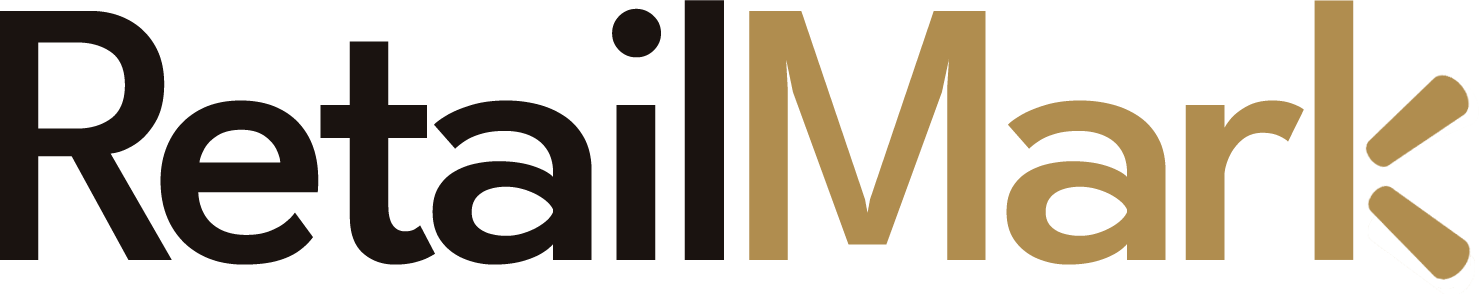
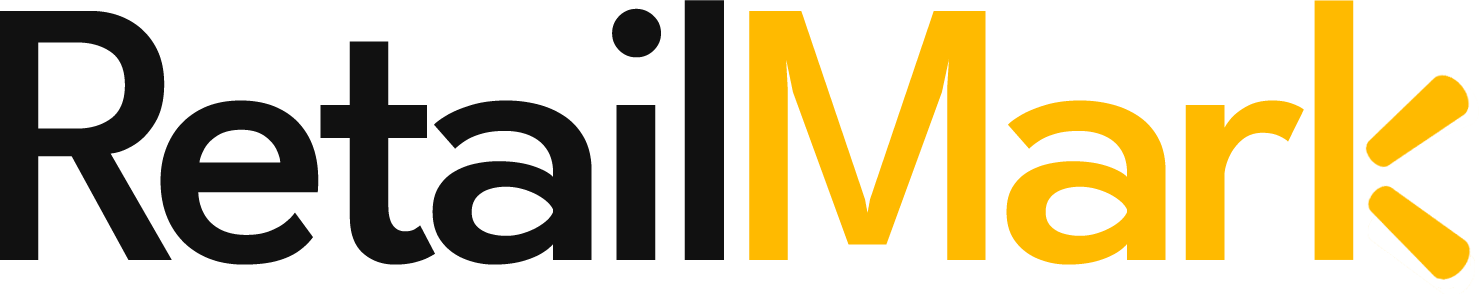
Fix the transparent header, and undo a half-applied palette
The nav text was unreadable because the header had no background at all.

Commit 08986bd added every rgba(var(--ink-rgb), ...) usage in the file but
never added the --ink-rgb declaration. An rgba() whose custom property is
undefined is invalid at computed-value time, and that resolves to transparent
rather than falling back to the earlier declaration in the cascade — so the bar
lost its background entirely and put white nav links on a cream hero.

The reason the declaration went missing is the same reason the palette was
wrong: that script inserted it with str.replace("  --black: #111111;", ...) at
a moment when --black was #1A1310, because a palette test had been applied and
not reverted. replace() matched nothing, returned the string unchanged, and
nothing asserted otherwise. The commit then also shipped a mixed palette —
espresso hex tokens with clay rgba literals — because palette.py had been run
repeatedly on its own output.

Restored every colour to the values in cdd1f3f, the last commit before that
pass: tokens, the four accent rgba literals, the two shadow literals, and the
logo artwork, which had been recoloured to brass. Diffed every colour literal
in the file against that commit; the only differences left are the ink
literals, now correctly tokenised, and the new retailer band's own whites.

palette.py no longer fails quietly. Every token substitution is re.subn with
the count asserted, and before it writes it checks that no var() is used
[…]

Changed region(s): [[0.4976, 0.0, 0.9953, 0.949]]

diff --git a/styles.css b/styles.css
@@ -1,14 +1,25 @@
 :root {
-  --black: #1A1310;
-  --charcoal: #2A211B;
-  --gold: #B08D4F;
-  --gold-light: #C6AD80;
-  --gold-dark: #8A6C35;
-  --gold-soft: rgba(204, 90, 49, 0.12);
-  --cream: #FAF7F1;
-  --gray: #6E655B;
-  --gray-light: #9C9287;
-  --border: #E9E1D5;
+  --black: #111111;
+  /* The ink as an rgb triple, because rgba() cannot take a hex custom
+     property. Every rgba(var(--ink-rgb), ...) below depends on this line
+     existing: an rgba() whose variable is undefined is invalid at
+     computed-value time, which resolves to transparent rather than falling
+     back to an earlier declaration. That is exactly how the header lost its
+     background and put white nav text on a cream hero. */
+  --ink-rgb: 17, 17, 17;
+  --ink-raised: #141414;
+  --card-dark: #1a1a1e;
+  --card-border: #35353a;
+  --on-dark-muted: #C9C9CC;
+  --charcoal: #222226;
+  --gold: #E8B923;
+  --gold-light: #F5D566;
+  --gold-dark: #C79A15;
+  --gold-soft: rgba(232, 185, 35, 0.12);
+  --cream: #FAF8F3;
+  --gray: #6B6B6F;
+  --gray-light: #9A9A9E;
+  --border: #E8E6DF;
   --radius: 10px;
   --radius-lg: 16px;
   --max-width: 1160px;
@@ -26,7 +37,7 @@
   --shadow-sm: 0 1px 2px rgba(var(--ink-rgb), 0.04), 0 1px 3px rgba(var(--ink-rgb), 0.03);
   --shadow-md: 0 8px 24px rgba(var(--ink-rgb), 0.07), 0 2px 6px rgba(var(--ink-rgb), 0.04);
   --shadow-lg: 0 24px 48px rgba(var(--ink-rgb), 0.14), 0 8px 16px rgba(var(--ink-rgb), 0.06);
-  --shadow-gold: 0 10px 24px rgba(141, 109, 15, 0.28);
+  --shadow-gold: 0 10px 24px rgba(199, 154, 21, 0.28);
 }
 
 * { box-sizing: border-box; margin: 0; padding: 0; }
@@ -221,8 +232,8 @@ textarea:focus-visible {
   display: flex;
   align-items: center;
   background:
-    radial-gradient(circle at 85% 0%, rgba(204, 90, 49,0.18), transparent 55%),
-    radial-gradient(circle at 0% 100%, rgba(204, 90, 49,0.08), transparent 45%),
+    radial-gradient(circle at 85% 0%, rgba(232, 185, 35,0.18), transparent 55%),
+    radial-gradient(circle at 0% 100%, rgba(232, 185, 35,0.08), transparent 45%),
     var(--cream);
   position: relative;
   overflow: hidden;
@@ -325,7 +336,7 @@ textarea:focus-visible {
 .service-card:hover {
   box-shadow: var(--shadow-lg);
   transform: translateY(-4px);
-  border-color: rgba(204, 90, 49, 0.4);
+  border-color: rgba(232, 185, 35, 0.4);
 }
 .service-icon {
   display: inline-flex;
@@ -1024,7 +1035,7 @@ a.service-card:focus-visible {
 
 .page-hero {
   background:
-    radial-gradient(circle at 88% 0%, rgba(204, 90, 49,0.16), transparent 58%),
+    radial-gradient(circle at 88% 0%, rgba(232, 185, 35,0.16), transparent 58%),
     var(--cream);
   padding: 66px 0 54px;
   border-bottom: 1px solid var(--border);
@@ -1352,7 +1363,7 @@ a.service-card:focus-visible {
   border-left: 3px solid var(--gold);
 }
 .post-body blockquote p { margin: 0; font-size: 1.08rem; }
-.post-body a { color: var(--gold-dark); border-bottom: 1px solid rgba(141, 109, 15,0.4); }
+.post-body a { color: var(--gold-dark); border-bottom: 1px solid rgba(199, 154, 21,0.4); }
 .post-body a:hover { border-bottom-color: currentColor; }
 .post-body code {
   background: var(--cream);

diff --git a/blog/what-a-line-review-actually-decides.html b/blog/what-a-line-review-actually-decides.html
@@ -14,7 +14,7 @@
 <link rel="preconnect" href="https://fonts.googleapis.com">
 <link rel="preconnect" href="https://fonts.gstatic.com" crossorigin>
 <link href="https://fonts.googleapis.com/css2?family=Manrope:wght@400;500;600;700;800&display=swap" rel="stylesheet">
-<link rel="stylesheet" href="../styles.css?v=20260827k">
+<link rel="stylesheet" href="../styles.css?v=20260827n">
 <script>
 if (!matchMedia('(prefers-reduced-motion: reduce)').matches)
   document.documentElement.classList.add('js-reveal');
@@ -166,6 +166,6 @@ if (!matchMedia('(prefers-reduced-motion: reduce)').matches)
   "isAccessibleForFree": true
 }
 </script>
-<script src="../script.js?v=20260827k"></script>
+<script src="../script.js?v=20260827n"></script>
 </body>
 </html>

diff --git a/blog.html b/blog.html
@@ -14,7 +14,7 @@
 <link rel="preconnect" href="https://fonts.googleapis.com">
 <link rel="preconnect" href="https://fonts.gstatic.com" crossorigin>
 <link href="https://fonts.googleapis.com/css2?family=Manrope:wght@400;500;600;700;800&display=swap" rel="stylesheet">
-<link rel="stylesheet" href="styles.css?v=20260827k">
+<link rel="stylesheet" href="styles.css?v=20260827n">
 <script>
 if (!matchMedia('(prefers-reduced-motion: reduce)').matches)
   document.documentElement.classList.add('js-reveal');
@@ -118,6 +118,6 @@ if (!matchMedia('(prefers-reduced-motion: reduce)').matches)
   </div>
 </footer>
 
-<script src="script.js?v=20260827k"></script>
+<script src="script.js?v=20260827n"></script>
 </body>
 </html>

diff --git a/index.html b/index.html
@@ -101,7 +101,7 @@ if (!matchMedia('(prefers-reduced-motion: reduce)').matches)
    is the right way for this to fail. */
 document.documentElement.classList.add('hero-lockup');
 </script>
-<link rel="stylesheet" href="styles.css?v=20260827k">
+<link rel="stylesheet" href="styles.css?v=20260827n">
 </head>
 <body>
 
@@ -433,7 +433,7 @@ document.documentElement.classList.add('hero-lockup');
   </div>
 </footer>
 
-<script src="script.js?v=20260827k"></script>
-<script type="module" src="boxspin.js?v=20260827k"></script>
+<script src="script.js?v=20260827n"></script>
+<script type="module" src="boxspin.js?v=20260827n"></script>
 </body>
 </html>

diff --git a/palette.py b/palette.py
@@ -159,13 +159,30 @@ def apply(name):
                      ("--gold-dark", p["dark"]), ("--cream", p["cream"]),
                      ("--gray", p["gray"]), ("--gray-light", p["gray_light"]),
                      ("--border", p["border"])):
-        s = re.sub(rf'(  {re.escape(tok)}: )#[0-9A-Fa-f]{{6}};', rf'\g<1>{val};', s, count=1)
+        s, n = re.subn(rf'(  {re.escape(tok)}: )#[0-9A-Fa-f]{{6}};', rf'\g<1>{val};', s, count=1)
+        # Loudly. A silent miss here is what left the stylesheet on a half
+        # applied palette and, worse, let a later pass add every
+        # rgba(var(--ink-rgb),...) usage without ever adding the declaration —
+        # which computes to transparent and took the header's background away.
+        if n != 1:
+            raise SystemExit(f"palette: could not find the {tok} declaration in styles.css")
     for tok, val in derived.items():
-        s = re.sub(rf'(  {re.escape(tok)}: )[^;]+;', rf'\g<1>{val};', s, count=1)
+        s, n = re.subn(rf'(  {re.escape(tok)}: )[^;]+;', rf'\g<1>{val};', s, count=1)
+        if n != 1:
+            raise SystemExit(f"palette: could not find the {tok} declaration in styles.css")
     acc = tuple(int(p["accent"][i:i + 2], 16) for i in (1, 3, 5))
     dark = tuple(int(p["dark"][i:i + 2], 16) for i in (1, 3, 5))
     s = re.sub(r'rgba\(232,\s*185,\s*35,', f'rgba({acc[0]}, {acc[1]}, {acc[2]},', s)
     s = re.sub(r'rgba\(199,\s*154,\s*21,', f'rgba({dark[0]}, {dark[1]}, {dark[2]},', s)
+    # Nothing may be used without being declared. This is the check that would
+    # have caught the transparent header on the spot.
+    declared = set(re.findall(r'(--[a-z0-9-]+)\s*:', s))
+    used = set(re.findall(r'var\((--[a-z0-9-]+)\s*\)', s))
+    runtime = {"--reveal-delay", "--rm-x", "--items", "--d"}
+    missing = sorted(used - declared - runtime)
+    if missing:
+        raise SystemExit(f"palette: these are used but never declared: {missing}")
+
     open(css, "w").write(s)
     return p
 

diff --git a/blog.py b/blog.py
@@ -39,7 +39,7 @@ import sys
 # one definition, in chrome.py — see the note there about launch day
 from chrome import ORIGIN
 HERE = os.path.dirname(os.path.abspath(__file__))
-ASSET_V = "20260827k"        # keep in step with the ?v= on the other pages
+ASSET_V = "20260827n"        # keep in step with the ?v= on the other pages
 
 
 # --------------------------------------------------------------------------
